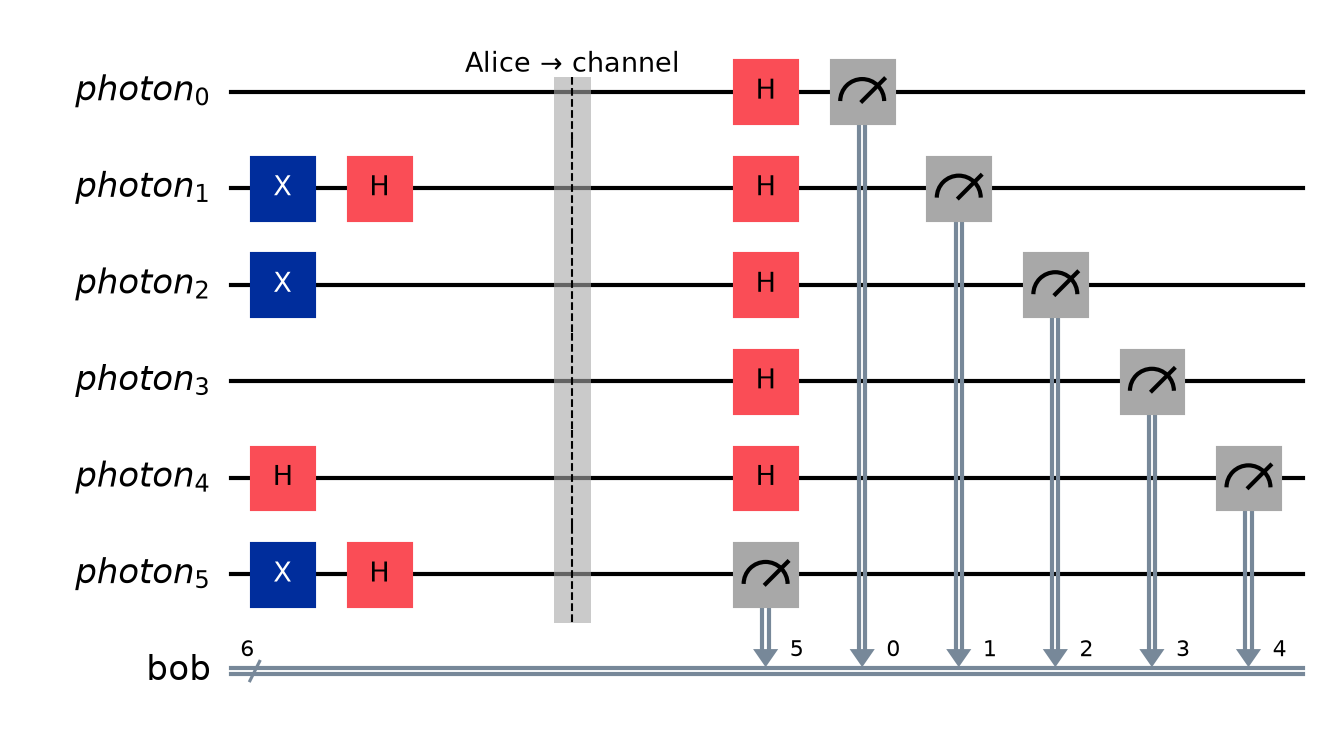
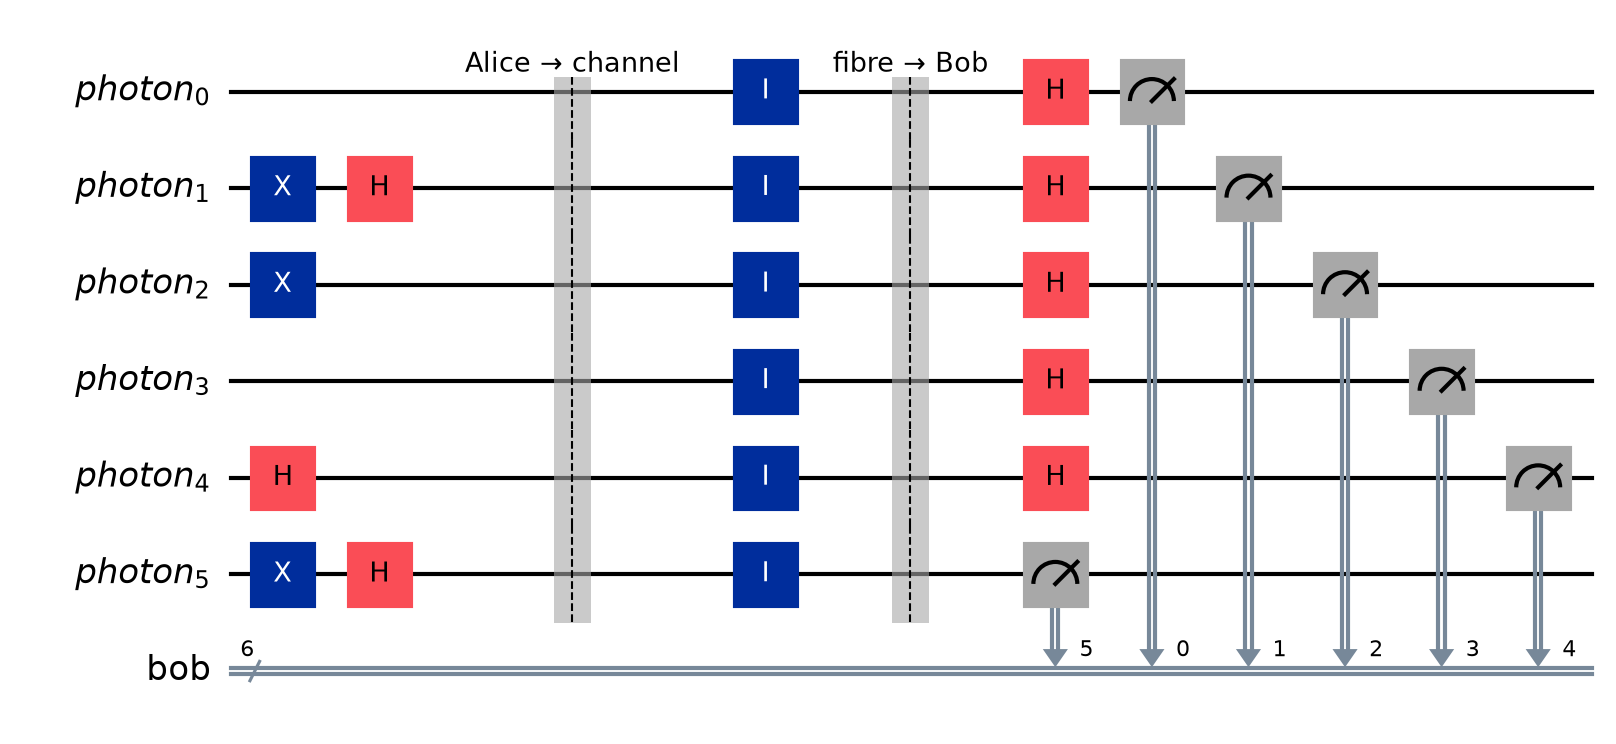
adding noise to bb84 model

diff --git a/bb84.py b/bb84.py
@@ -18,9 +18,30 @@ from dataclasses import dataclass, field
 import numpy as np
 from qiskit import ClassicalRegister, QuantumCircuit, QuantumRegister
 from qiskit_aer import AerSimulator
+from qiskit_aer.noise import NoiseModel, ReadoutError, depolarizing_error
 
 BASIS_SYMBOL = {0: "+", 1: "x"}
-_SIMULATOR = AerSimulator(method="stabilizer")
+
+def make_noise_model(noise_rate: float) -> NoiseModel | None:
+    """
+    Noise model of a real optical link, parameterised by one intrinsic error rate.
+
+    The rate is split evenly between the two physical sources, so that the QBER of
+    an honest transmission is ~`noise_rate` (exactly e - 2(e/2)^2, e.g. 11.8 % for 12 %):
+      * channel (fibre): depolarizing error on the `id` gate that models the
+        propagation. Qiskit's depolarizing parameter lam replaces the qubit by the
+        maximally mixed state with probability lam, which flips a measurement in
+        either basis with probability lam/2. We want a flip of noise_rate/2, so
+        lam = noise_rate.
+      * detector (Bob): symmetric readout error, a flip with probability noise_rate/2.
+    """
+    if noise_rate <= 0:
+        return None
+    model = NoiseModel()
+    model.add_all_qubit_quantum_error(depolarizing_error(noise_rate, 1), ["id"])
+    flip = noise_rate / 2
+    model.add_all_qubit_readout_error(ReadoutError([[1 - flip, flip], [flip, 1 - flip]]))
+    return model
 
 
 # --------------------------------------------------------------------------- #
@@ -81,15 +102,22 @@ def build_circuit(alice_bits, alice_bases, bob_bases, eve_bases=None, eve_mask=N
                 intercept_resend(qc, q[i], eve_c[i], eve_bases[i])
         qc.barrier(label="Eve → Bob")
 
+    # Last stretch of fibre before Bob's detector. The explicit identity gate is where
+    # the noise model attaches the depolarizing error (no-op when noise is off).
+    for i in range(n):
+        qc.id(q[i])
+    qc.barrier(label="fibre → Bob")
+
     qc.add_register(bob_c)
     for i in range(n):
         measure(qc, q[i], bob_c[i], bob_bases[i])
     return qc
 
 
-def run_circuit(qc: QuantumCircuit, seed=None):
+def run_circuit(qc: QuantumCircuit, seed=None, noise_rate: float = 0.0):
     """Run once and return {register_name: np.array of bits indexed by qubit}."""
-    result = _SIMULATOR.run(qc, shots=1, memory=True, seed_simulator=seed).result()
+    sim = AerSimulator(method="stabilizer", noise_model=make_noise_model(noise_rate))
+    result = sim.run(qc, shots=1, memory=True, seed_simulator=seed).result()
     # Qiskit prints registers in reverse order of creation, separated by spaces,
     # and each register's bit 0 is the rightmost character.
     chunks = result.get_memory()[0].split(" ")
@@ -115,6 +143,7 @@ class BB84Result:
     key_idx: np.ndarray               # sifted positions kept as the secret key
     qber: float                       # error rate measured on the check bits
     threshold: float
+    noise_rate: float
     circuit: QuantumCircuit = field(repr=False)
 
     @property
@@ -143,6 +172,7 @@ def run_bb84(
     intercept_rate: float = 1.0,
     check_fraction: float = 0.5,
     threshold: float = 0.11,
+    noise_rate: float = 0.0,
     seed: int | None = None,
 ) -> BB84Result:
     """
@@ -150,7 +180,11 @@ def run_bb84(
 
     intercept_rate : fraction of photons Eve intercepts (if eavesdropper=True).
     check_fraction : fraction of the sifted key sacrificed to estimate the error rate.
-    threshold      : maximum tolerated QBER; above it Alice and Bob abort.
+    threshold      : maximum tolerated QBER; above it Alice and Bob abort (11 %, the
+                     Shor-Preskill bound).
+    noise_rate     : intrinsic channel + detector error rate, 0..0.12 (see
+                     `make_noise_model`). Note the readout error also affects Eve's
+                     detector: she is not a perfect eavesdropper.
     """
     rng = np.random.default_rng(seed)
 
@@ -171,7 +205,7 @@ def run_bb84(
     # 4. Bob measures (the circuit runs Alice -> [Eve] -> Bob).
 
     qc = build_circuit(alice_bits, alice_bases, bob_bases, eve_bases, eve_mask)
-    regs = run_circuit(qc, seed=None if seed is None else int(rng.integers(2**31)))
+    regs = run_circuit(qc, seed=None if seed is None else int(rng.integers(2**31)), noise_rate=noise_rate)
     bob_bits = regs["bob"]
     eve_bits = None
     if eavesdropper:
@@ -202,6 +236,7 @@ def run_bb84(
         key_idx=key_idx,
         qber=float(qber),
         threshold=threshold,
+        noise_rate=noise_rate,
         circuit=qc,
     )
 

diff --git a/main.py b/main.py
@@ -237,12 +237,14 @@ def main() -> None:
     parser.add_argument("--n", type=int, default=200, help="number of photons Alice sends")
     parser.add_argument("--seed", type=int, default=42, help="random seed (for reproducible runs)")
     parser.add_argument("--threshold", type=float, default=0.11, help="maximum tolerated QBER")
+    parser.add_argument("--noise", type=float, default=0.0,
+                        help="intrinsic channel+detector error rate, 0..0.12 (default 0 = ideal)")
     args = parser.parse_args()
 
     FIGURES.mkdir(exist_ok=True)
 
-    res_clean = run_bb84(args.n, eavesdropper=False, threshold=args.threshold, seed=args.seed)
-    res_eve = run_bb84(args.n, eavesdropper=True, threshold=args.threshold, seed=args.seed)
+    res_clean = run_bb84(args.n, eavesdropper=False, threshold=args.threshold, noise_rate=args.noise, seed=args.seed)
+    res_eve = run_bb84(args.n, eavesdropper=True, threshold=args.threshold, noise_rate=args.noise, seed=args.seed)
     report("SCENARIO 1 - No eavesdropper", res_clean)
     report("SCENARIO 2 - Eve intercepts and resends every photon", res_eve)
 

diff --git a/README.md b/README.md
@@ -27,6 +27,13 @@ All photons go in one circuit, which runs a single time (`shots=1`), like a real
 transmission. The protocol uses only Clifford gates (X, H, measurement), so the Aer
 stabilizer simulator can handle thousands of qubits.
 
+## Noise model (methodology §3.1)
+
+`run_bb84(..., noise_rate=e)` with `e` in 0..0.12 applies a Qiskit `NoiseModel`: half of
+`e` comes from depolarization in the fibre (an `id` gate before Bob) and half from
+readout error in the detectors, so the honest QBER is about `e`. The noise also affects
+Eve's detector. The default `0` keeps the ideal behaviour above.
+
 ## Running
 
 ```bash
